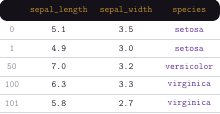
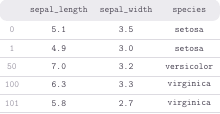
витрина: e484bb3 tex: датафрейм на обложке NumPy — только серый и белый

diff --git a/index.html b/index.html
@@ -17,7 +17,7 @@
 <link rel="apple-touch-icon" href="assets/icons/apple-touch-icon.png">
 <meta name="apple-mobile-web-app-title" content="Лучезарность">
 <link rel="preload" href="assets/fonts/golos-cyrillic.woff2" as="font" type="font/woff2" crossorigin>
-<link rel="stylesheet" href="assets/style.css?v=202610081819">
+<link rel="stylesheet" href="assets/style.css?v=202610081826">
 
 <!-- Единственное, что тянется со стороны: разбор markdown и вёрстка формул.
      Писать это руками — недели работы и свои же ошибки. Версии закреплены;
@@ -27,7 +27,7 @@
 <script defer src="https://cdnjs.cloudflare.com/ajax/libs/marked/12.0.2/marked.min.js"></script>
 <script defer src="https://cdnjs.cloudflare.com/ajax/libs/KaTeX/0.16.9/katex.min.js"></script>
 
-<meta name="build" content="202610081819">
+<meta name="build" content="202610081826">
 </head>
 <body>
 <div class="wrap">
@@ -86,6 +86,6 @@
     </div>
   </main>
 </div>
-<script defer src="assets/app.js?v=202610081819"></script>
+<script defer src="assets/app.js?v=202610081826"></script>
 </body>
 </html>

diff --git a/data/notes/tex/styles/cvetnoy.md b/data/notes/tex/styles/cvetnoy.md
@@ -314,7 +314,7 @@ pl/.style={circle,fill=white,fill opacity=0.85,text opacity=1,inner sep=0.6pt},
 | Квадратный трёхчлен | «лагуна»: мята `#8EE3C8`, коралл `#FF6B6B`, персик `#FFB385`, бирюза `#2EC4B6`, глубокий синий `#1B6CA8` |
 | Квадратный трёхчлен, разбор урока | «сад»: песок `#F3E3C3`, шалфей `#A8C69F`, терракота `#D9734E`, мох `#5E8C61`, баклажан `#4B2E4F` |
 | Линейные модели | «ледник»: талая вода `#A9D8F2`, лазурь `#5BAFE3`, кобальт `#2A6FB8`, глубина `#17325F`; след `#FF6B35`; на белом, без фона |
-| NumPy и pandas | «парадная», цвета владельца: чёрный `#141118`, золото `#C4932E`, фиолетовый `#5B2A8C`, платина `#D5D8DE`, серый `#8A8494`. До 08.10.2026 — «осенний лес»: олива `#8A9A2B`, ржавчина `#C0392B`, вино `#6D1F3B`, пихта `#2F5D50`, сливки `#F1E9D8` |
+| NumPy и pandas | «графит», только серые на белом: шапка `#ECEBEF`, подписи `#4A4552`, текст `#3E3848`, линии `#DDDBE1`, номера `#9A95A3`. До 08.10.2026 — «осенний лес»: олива `#8A9A2B`, ржавчина `#C0392B`, вино `#6D1F3B`, пихта `#2F5D50`, сливки `#F1E9D8` |
 | Сравнения по модулю, урок | «витраж»: лавандовый туман `#EDE7F6`, лимон `#F4D35E`, ультрамарин `#3B5BDB`, малина `#E0457B`, ночь `#1E1548` |
 | Сравнения по модулю, домашка | «грозовое море»: туман `#E7EEF0`, огонь маяка `#F5B841`, морская волна `#5FA8A0`, штормовой синий `#2F5F8A`, графит `#18222F` |
 | Сравнения по модулю, разбор урока | «вереск»: бледный вереск `#F1EAF2`, лайм `#C5D86D`, вереск `#B565A7`, фиалка `#6C4A9E`, чернила `#231942` |
